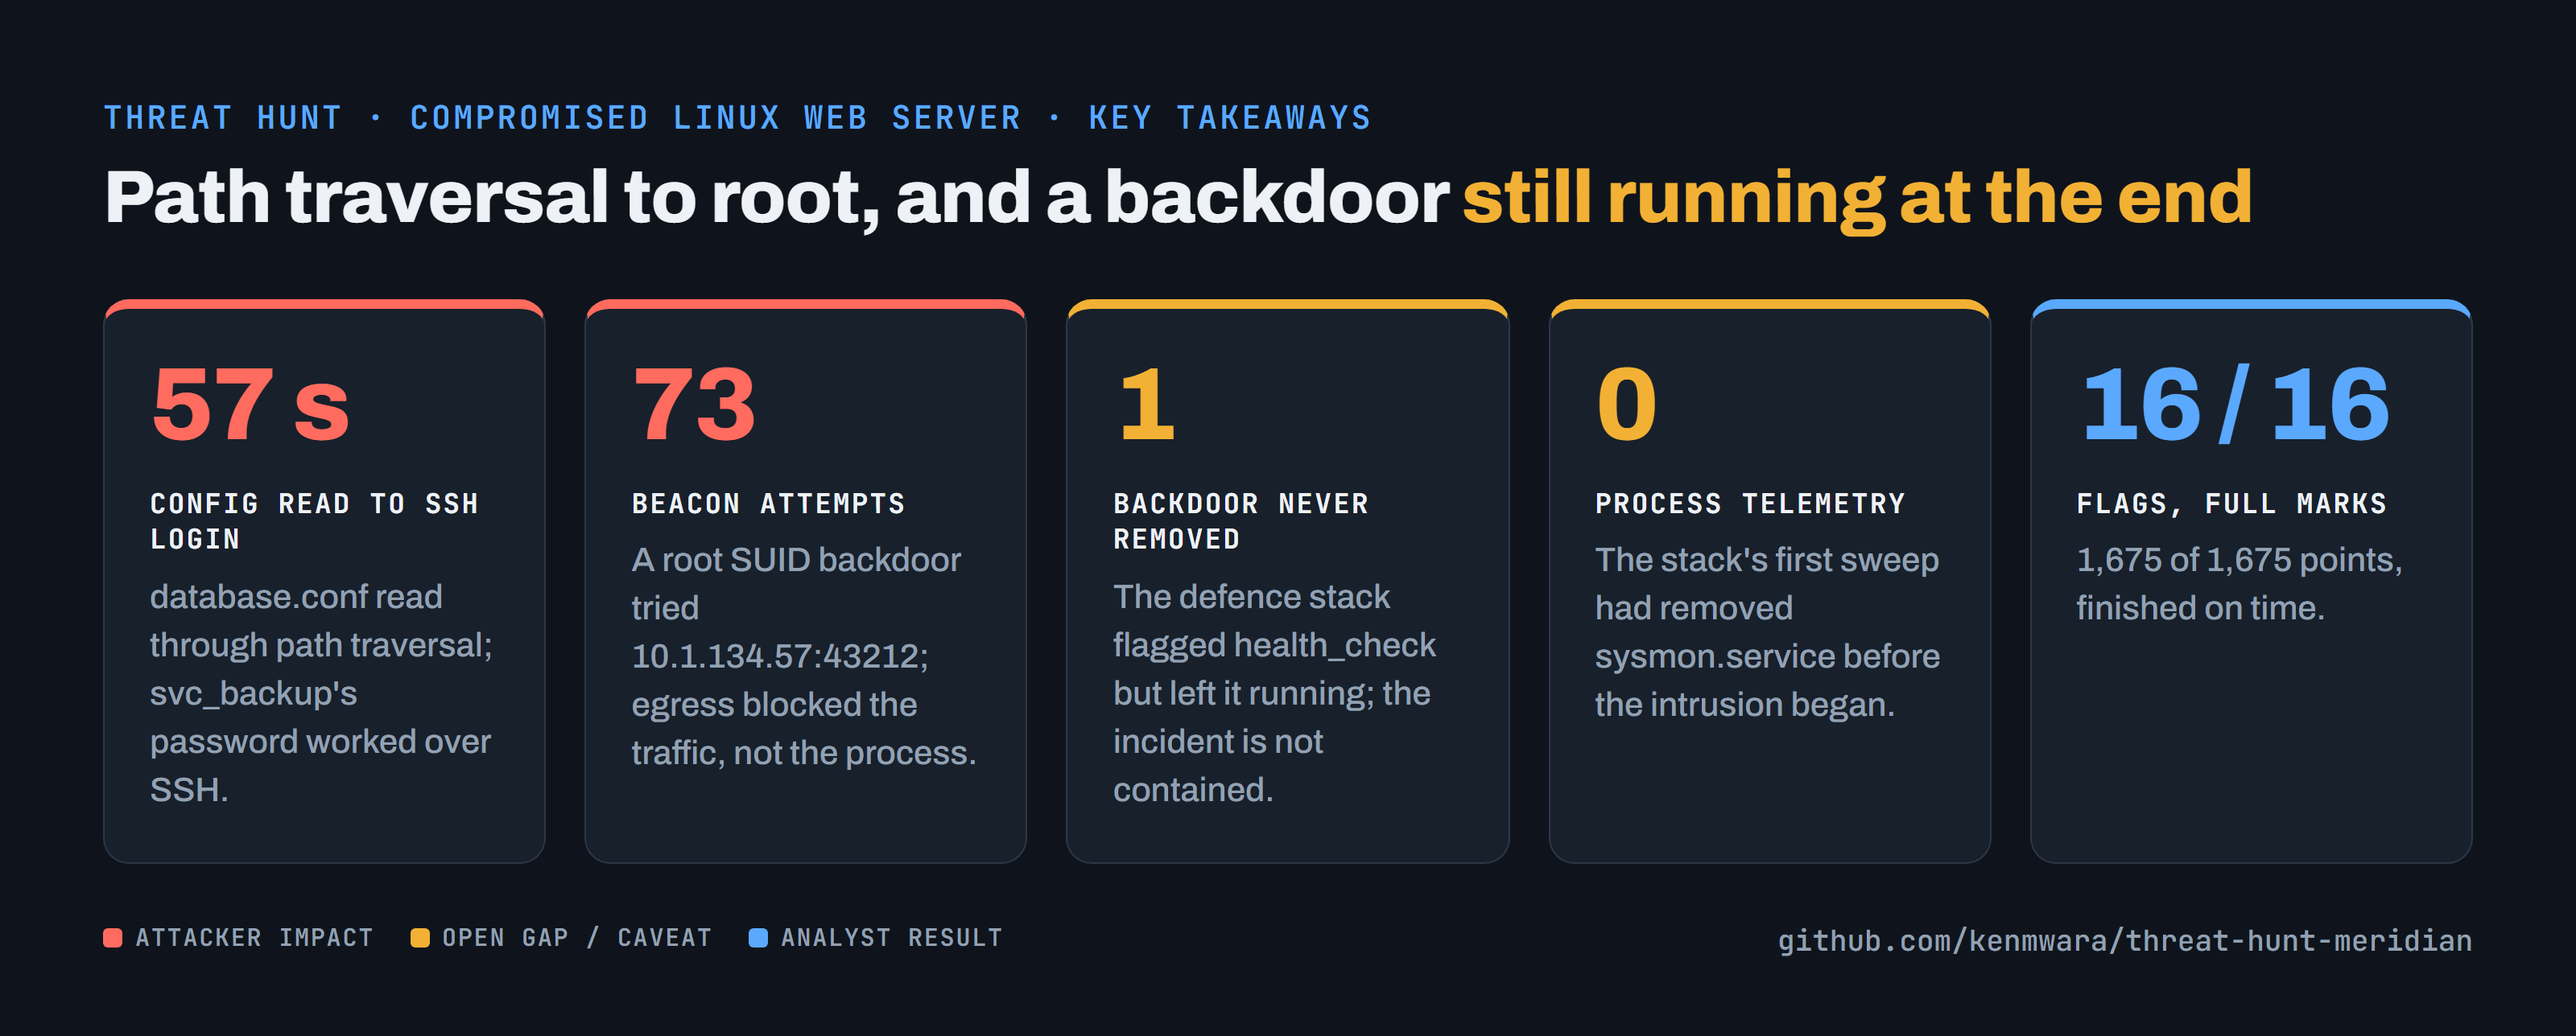
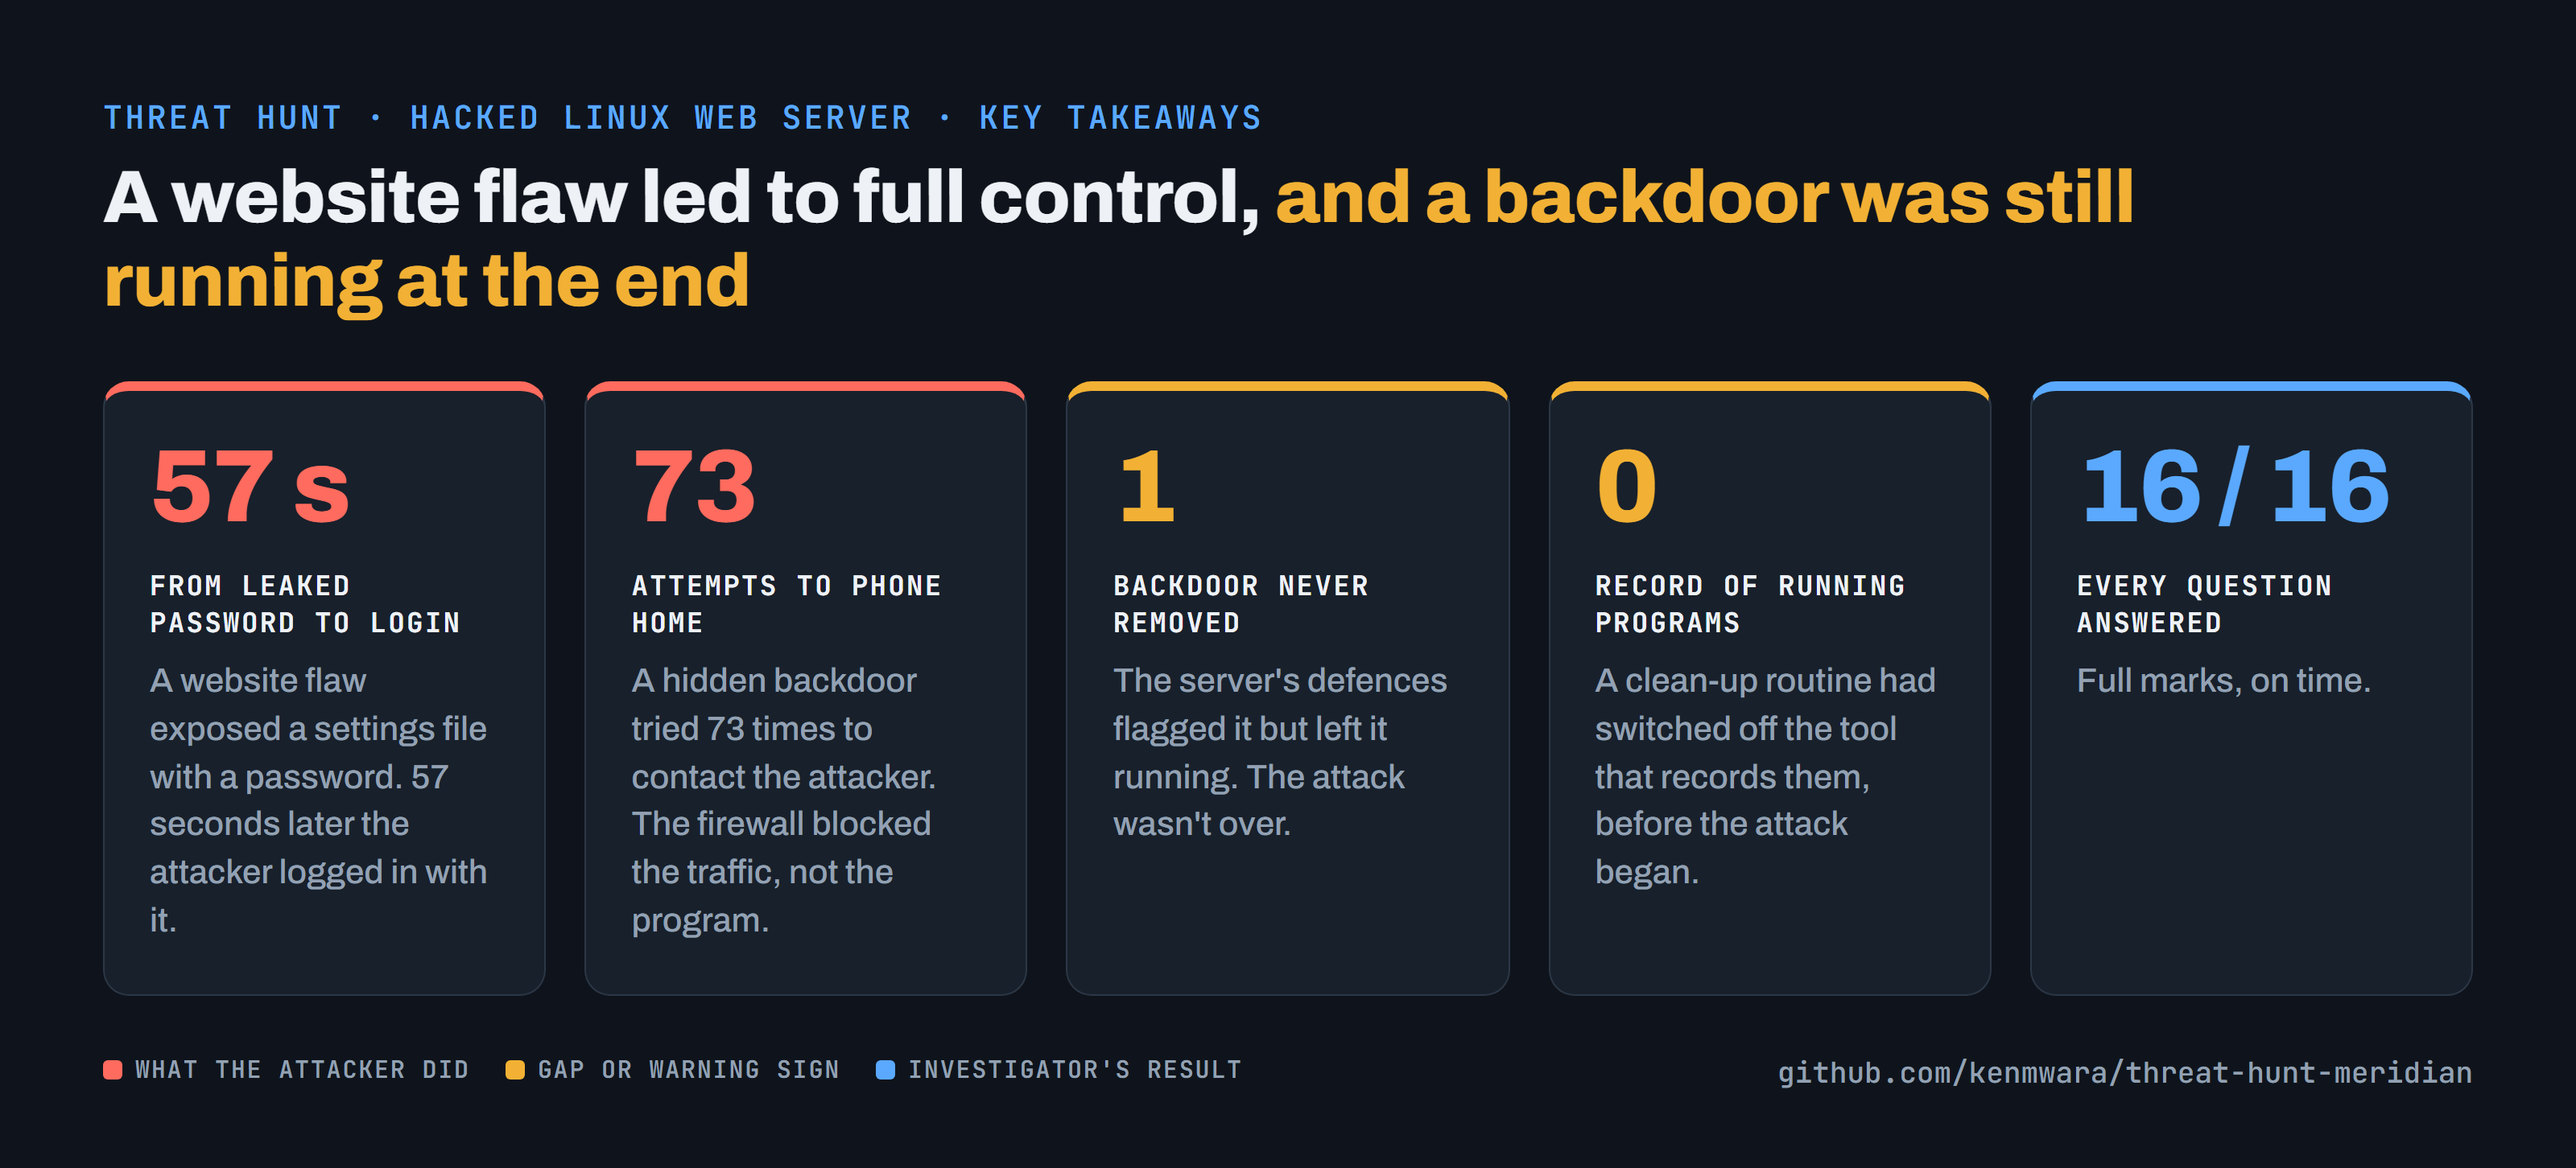
docs: diagrams and scorecards rewritten in plain English

diff --git a/README.md b/README.md
@@ -14,7 +14,7 @@ finished on time. Published after the hunt closed on 3 October 2026. A PDF copy 
 
 ## Key takeaways
 
-<img src="images/scorecard.png" width="100%" alt="Key takeaways. Path traversal to root, and a backdoor still running at the end. 57 s: Config read to SSH login. database.conf read through path traversal; svc_backup's password worked over SSH. 73: Beacon attempts. A root SUID backdoor tried 10.1.134.57:43212; egress blocked the traffic, not the process. 1: Backdoor never removed. The defence stack flagged health_check but left it running; the incident is not contained. 0: Process telemetry. The stack's first sweep had removed sysmon.service before the intrusion began. 16 / 16: Flags, full marks. 1,675 of 1,675 points, finished on time.">
+<img src="images/scorecard.png" width="100%" alt="Key takeaways. A website flaw led to full control, and a backdoor was still running at the end. 57 s: From leaked password to login. A website flaw exposed a settings file with a password. 57 seconds later the attacker logged in with it. 73: Attempts to phone home. A hidden backdoor tried 73 times to contact the attacker. The firewall blocked the traffic, not the program. 1: Backdoor never removed. The server's defences flagged it but left it running. The attack wasn't over. 0: Record of running programs. A clean-up routine had switched off the tool that records them, before the attack began. 16 / 16: Every question answered. Full marks, on time.">
 
 ## 1. Summary
 
